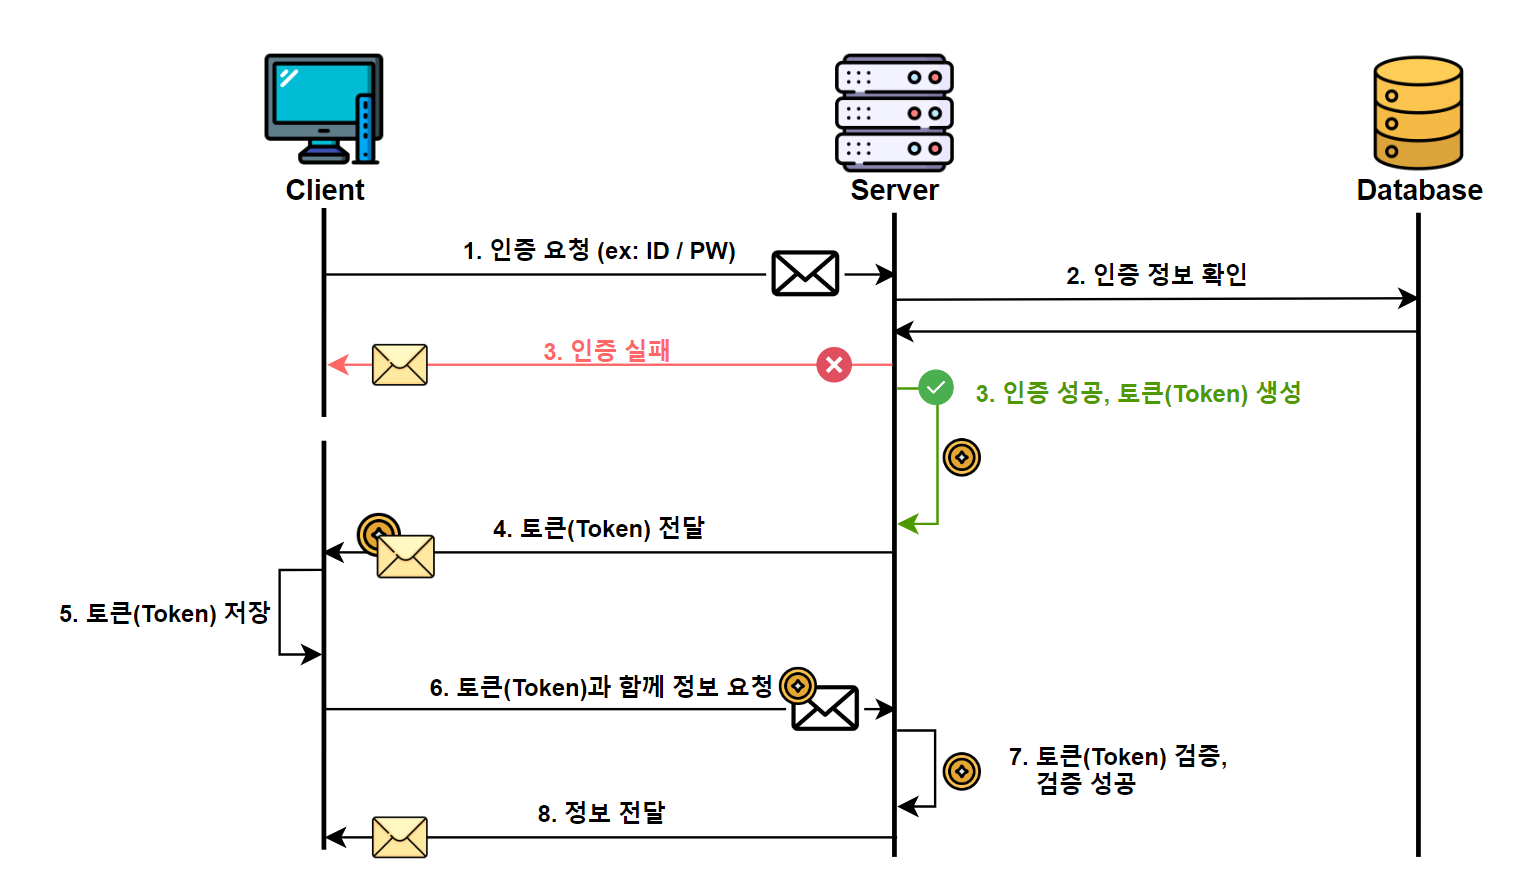
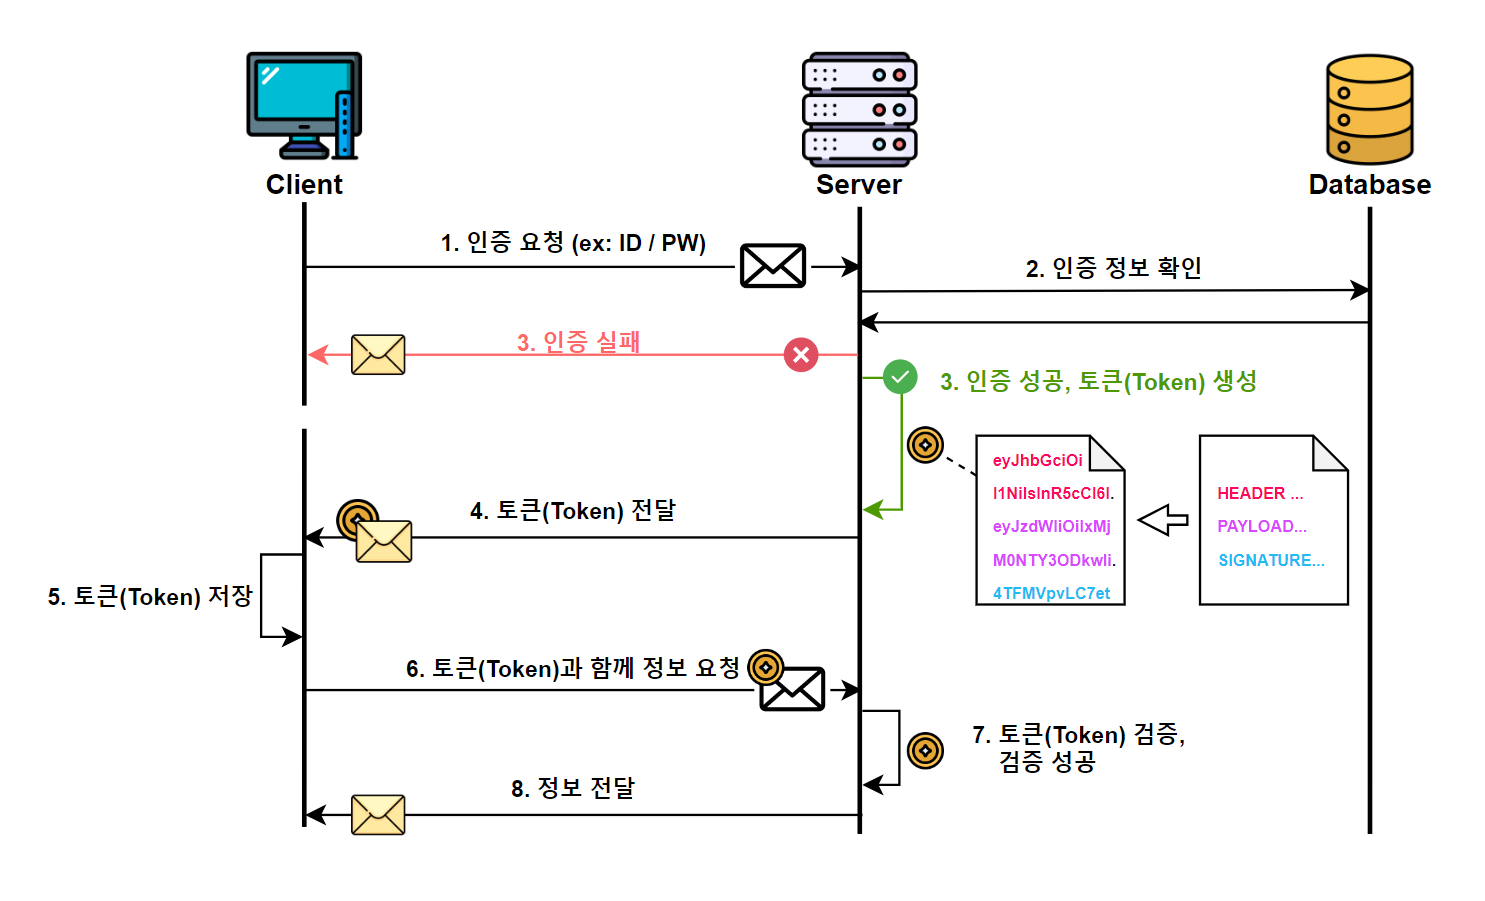
jwt post

Changed region(s): [[0.031, 0.0305, 0.9293, 0.9752], [0.8673, 0.0609, 0.9603, 0.2743], [0.8983, 0.9142, 0.9293, 0.9447]]

diff --git a/_posts/web/etc/2024-12-17-jwt.md b/_posts/web/etc/2024-12-17-jwt.md
@@ -1,0 +1,184 @@
+---
+title: JWT (Json Web Token) 정리
+date: 2024-12-17 00:00:00 +09:00
+description: JWT(Json Web Token)의 개념 및 특징 정리
+categories: [WEB, Etc]
+tags: [JWT, Secrurity, Token,]
+hidden: false
+image:
+  path: /assets/img/logo/jwt_logo.png
+  alt: jwt
+---
+
+이 글은 로그인과 같은 사용자 `인증(authentication)` 기능을 구현하기 위해 사용되는 JWT에 대하여 정리하고자 합니다.
+
+<br/>
+
+---
+## JWT(Json web Token)이란?
+`JWT`는 Json Web Token의 약자로 이름처럼 Json객체에 정보를 담은 암호화된 토큰이며 `사용자 인증`과 같은 민감한 정보를 안전하게 전달하기 위한 방법 중 하나입니다.
+
+<br/>
+
+---
+## JWT 구조
+
+`JWT`는 `.`을 구분자로 `Header`, `Payload`, `Signature`이와 같은 세 부분으로 구분됩니다. 
+- 헤더(Header)  : 서명에 필요한 알고리즘, 토큰의 유형 정보
+- 정보(Payload) : 전달하려는 정보
+- 서명(Signature) : `Header`,`Payload`, `Secret key`를 합친 암호화 값
+
+![JWT Sample](/assets/img/posts/web/etc/jwt/jwt_01.png)
+_JWT Sample_
+
+<br/>
+
+### 헤더(Header)
+- `헤더(Header)`에는 서명에 필요한 알고리즘과 토큰의 유형 정보가 담겨 있습니다.
+    - `alg` : `서명(signature)`에 필요한 알고리즘 종류 (HS256, RS256 등)
+    - `typ` : 토큰의 유형
+- `헤더(Header)`는 `Base64Url`로 `인코딩(Encoding)`되어 `JWT`의 첫 번째 부분을 형성
+  
+### 정보(Payload)
+- 전달하려는 정보가 key-value 형식으로 담겨 있으며 이러한 정보를 `클레임(Claims)`이라고 부릅니다.  
+- `클레임(Claims)`은 `등록된 클레임(registered claims)`, `공개 클레임(public claims)`, `비공개 클레임(private claims)` 세 가지로 유형이 있습니다.
+- `정보(Payload)`는 `Base64Url`로 `인코딩(Encoding)`되어 `JWT`의 두 번째 부분을 형성
+- 
+#### 등록된 클레임(Registered claims)
+- JWT에 미리 정의된 예약 클레임입니다.
+    - `iss` (Issuer) : `토큰(token)`을 발급한 주체(서버)
+    - `sub` (Subject) : `토큰(token)`의 주제, 사용자 ID 또는 주요 식별자
+    - `exp` (Expiration) : `토큰(token)`의 만료 시간 (Unix Timestamp로 표시)
+    - `iat` (Issued At) : `토큰(token)`이 발급된 시간
+  
+<br/>
+
+#### 공개 클레임(Public claims)
+- 사용자가 정의할 수 있는 클레임
+- 서비스 간 공유할 목적으로 설계된 클레임
+- Json 형식으로 다양한 데이터 사용
+- 임의로 정의된 클레임은 충돌할 가능성이 있기 때문에 충돌 방지를 위해서 네임스페이스 사용을 권장합니다.
+
+    *네임스페이스 사용 예시, 다른 서비스와 충돌하지 않도록 네임스페이스 추가*
+    ```json    
+  {
+    "https://devistory.com":{
+        "id": "`1234",
+        "roles": ["admin", "editor"]
+    }
+  }
+    ```
+<br/>
+
+#### 비공개 클레임(Private claims)
+- 특정 서비스나 애플리케이션 간 맞춤형 데이터 저장
+- 외부에 공개되거나 공유될 필요 없음
+- 클라이언트와 서버 간의 협의를 통해만 이해되고 해석될 수 있습니다.
+
+> **주의**<br/>
+> \- `정보(Payload)`는 암호화되지 않기 때문에 민감한 정보를 사용하면 안됩니다.
+{: .prompt-warning }
+
+> **참고 사항**<br/>
+> \- 위 내용은 일부 내용만 정리한 것으로 더 많은 클레임 정보는 [IANA JSON web token registry](https://www.iana.org/assignments/jwt/jwt.xhtml "IANA JSON web token registry Link") 를 참조하시면 됩니다.
+{: .prompt-info }
+
+<br/>
+
+### 서명(Signature)
+- `Header`와 `Payload`를 인코딩 한 값에 사용자가 설정한 `Secret key`로 암호화한 `해쉬(Hash)` 값 입니다.
+- `서명(signature)`으로 토큰의 변조 여부를 검증할 수 있습니다.
+- `서명(signature)`은 `Base64Url`로 `인코딩(Encoding)`되어 `JWT`의 세 번째 부분을 형성
+
+![JWT Signature](/assets/img/posts/web/etc/jwt/jwt_02.png)
+_JWT Signature_
+
+> **주의**<br/>
+> \- `Secret key`는 노출되지 않도록 서버에서 관리 필요
+{: .prompt-warning }
+
+<br/>
+
+---
+
+## JWT 인증 절차
+
+![JWT flow](/assets/img/posts/web/etc/jwt/jwt_03.png)
+_JWT flow_
+
+1. `Client`는 인증에 필요한 정보와 함께 `Server`로 인증 요청  ex) ID/Password
+2. `Server`는 `Database`에 있는 사용자 정보를 `Client`로 부터 전달 받은 인증 정보와 일치하는지 확인
+3. 인증 결과에 따른 처리
+   - 인증 정보 불일치 : 인증 실패 메세지 전달
+   - 인증 정보 일치 : `secret key`를 이용하여 `토큰(token)` 생성
+4. `Client`에게 `토큰(token)` 전달
+5. `Client`는 `Server`로 부터 전달 받은 `토큰(token)` 저장 (LocalStorage, SessionStorage 또는 Http-only 쿠키를 사용)
+6. 저장되있는 `토큰(token)`과 함께 필요한 정보를 요청
+7. `Server`는 정보를 요청한 `Client`가 인증된 대상인지 확인하기 위해서 `토큰(token)` 검증
+8. 검증 결과가 정상이라면 요청 정보 전달
+
+<br/>
+
+---
+## JWT의 장단점
+### 장점
+- `세션(session) 인증` 보다 부하가 적음
+  - `세션(session) 인증`은 `세션 ID`를 메모리 또는 Database에 접근하여 검증하지만, `토큰(token) 인증`은 `토큰(token)` 자체를 검증하기 때문에 `세션(session) 인증`보다 부하가 적음
+- `MSA(Microservice Architecture)`에 더 적합
+  - `MSA(Microservice Architecture)`처럼 분리된 서비스 구조에서는 `세션(session) 인증`으로 관리가 쉽지 않기 때문에 `토큰(token) 인증`이 더 적합
+
+### 단점
+- 디코딩이 쉬워서 민감한 정보를 담을 수 없습니다.
+  - `JWT`는 `Base64Encoding`이기 때문에 쉽게 `Decoding`하여 정보를 확인할 수 있습니다.
+- `Sercet key`를 단순하게 만들면 Brutefocrce 공격에 취약
+
+> **주의**<br/>
+> \-`Bruteforce`는 모든 경우의 수를 시도하는 공격으로 `Secret Key`가 짧고 단순하면 경우의 수도 적어지기 때문에 `Bruteforce` 공격에 취약합니다.
+{: .prompt-warning }
+
+- JWT 탈취 문제
+  - HttpOnly cookie 사용
+  - access token을 짧게 설정
+  - refresh token rotation을 사용하여 refresh token을 일회용으로 사용
+
+<br/>
+
+---
+## 마무리
+
+`토큰(token) 인증`에 사용되는 `JWT(Json web Token)`에 대해서 정리하였습니다. 해당 내용 이외에도 더 많은 내용이 있기 때문에 필요하시면 `참고 자료`를 참조하시면 됩니다.
+
+<br/>
+
+📑 **참고 자료**
+- [코딩애플(JWT 대충 쓰면 님들 코딩인생 끝남)](https://youtu.be/XXseiON9CV0?si=enjUMw_pzPW2_uwe)
+- [얄팍한 코딩사전(세션 VS. 토큰! JWT가 뭔가요?)](https://youtu.be/1QiOXWEbqYQ?si=DqXRD4xYsexr6CPH)
+- [Inpa Dev 블로그](https://inpa.tistory.com/entry/WEB-📚-JWTjson-web-token-란-💯-정리#token_방식의_단점)
+- [jwt.io](https://jwt.io/)
+
+<br/>
+
+> **Tip** <br/>
+> `JWT`를 간단하게 만들어 보고 싶으시면 `jwt.io`에서 만들어 볼 수 있습니다.<br/>
+> [jwt.io](https://jwt.io/) 
+{: .prompt-tip }
+
+
+<br/>
+> 해당 글은 잘못되거나 새로운 내용이 확인되면 언제든 수정될 수 있습니다.
+{: .prompt-info }
+<br/>
+
+> 🔖 **이미지 출처**<br/>
+> Icons made by various authors from [www.flaticon.com](https://www.flaticon.com)
+> - Icon made by Freepik from www.flaticon.com
+> - Icon made by Smashicons from www.flaticon.com
+> - Icon made by Iconjam from www.flaticon.com
+> - Icon made by yaicon from www.flaticon.com
+> - Icon made by kliwir art from www.flaticon.com
+> - Icon made by Alfredo Hernandez from www.flaticon.com
+> - Icon made by Creative Squad from www.flaticon.com
+> - Icon made by Mihimihi from www.flaticon.com
+> 
+>*Thanks to the creators who created these great icons.*
+
